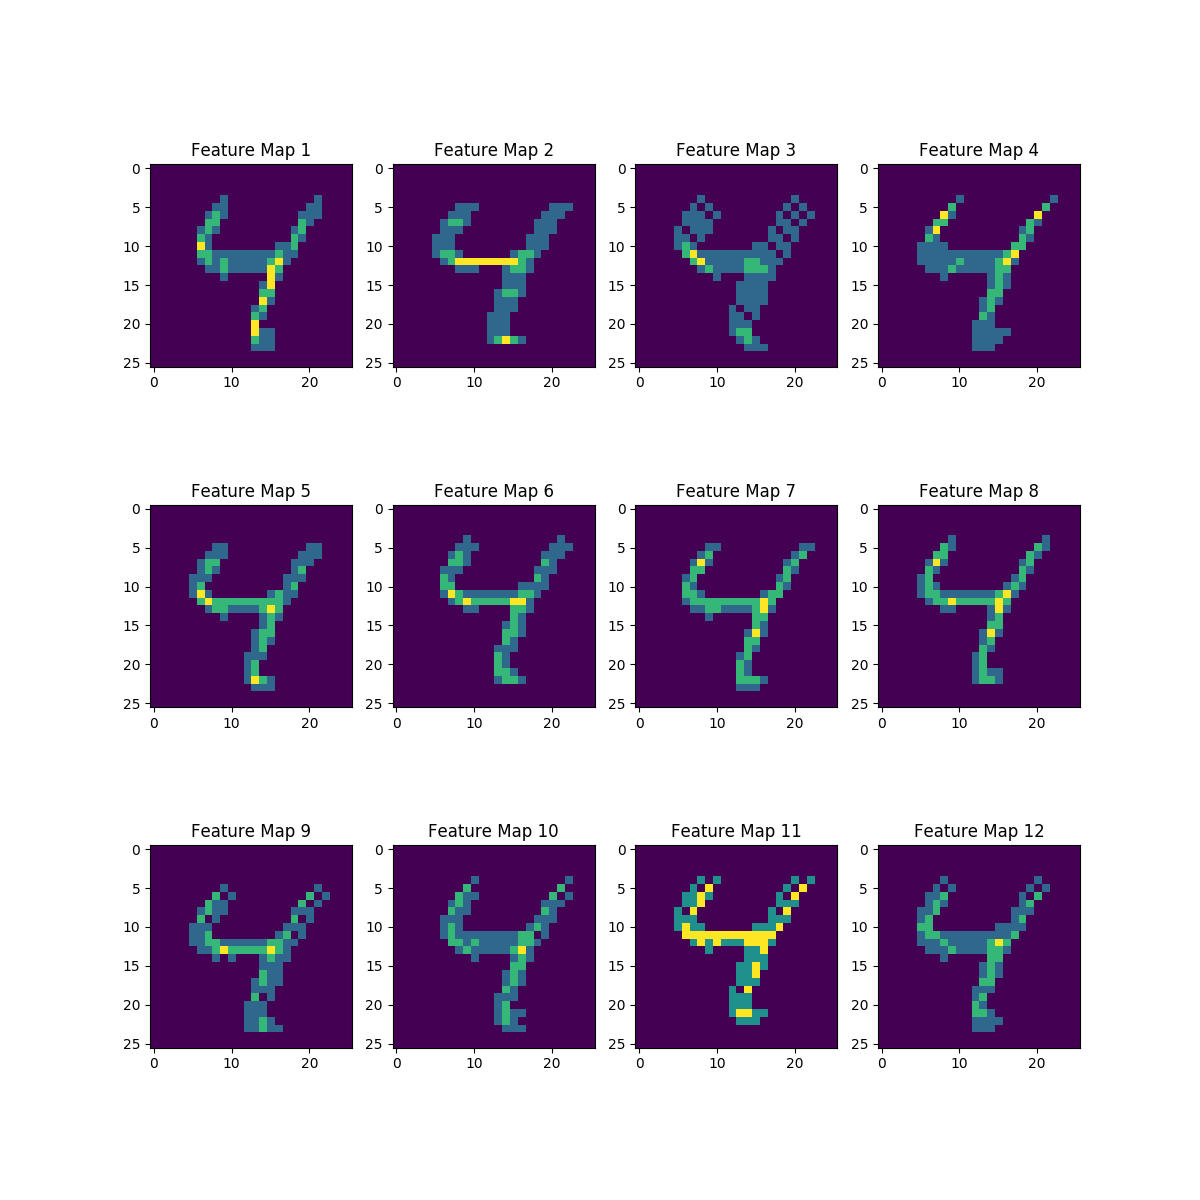
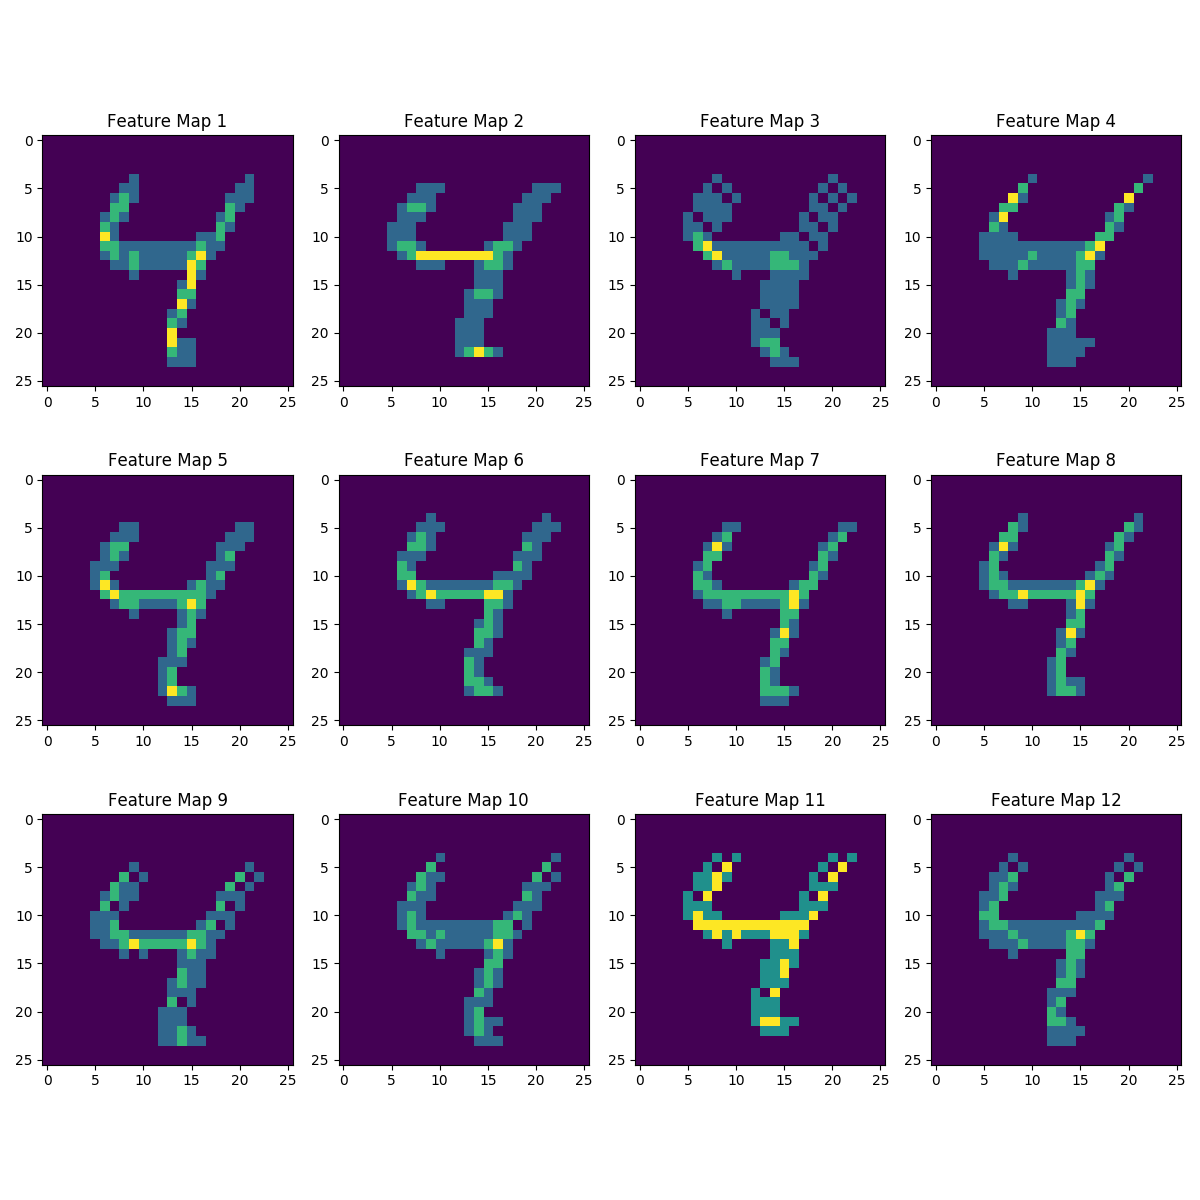
Add kernels to readme

diff --git a/train.py b/train.py
@@ -137,7 +137,7 @@ if __name__ == "__main__":
     # snn.guess(image)
     #
     fig = plt.figure(figsize=(12, 12))
-    fig.subplots_adjust(hspace=0.4)
+    fig.subplots_adjust(hspace=1)
     columns = 4
     rows = 3
     for i in range(1, columns * rows + 1):
@@ -145,6 +145,7 @@ if __name__ == "__main__":
         fig.add_subplot(rows, columns, i)
         plt.imshow(feature_maps[f_map_idx], interpolation="nearest")
         plt.title("Feature Map {}".format(f_map_idx + 1), fontsize=12)
+        plt.tight_layout()
     fig.tight_layout()
     plt.savefig("plots/feature_map")
     plt.show()
